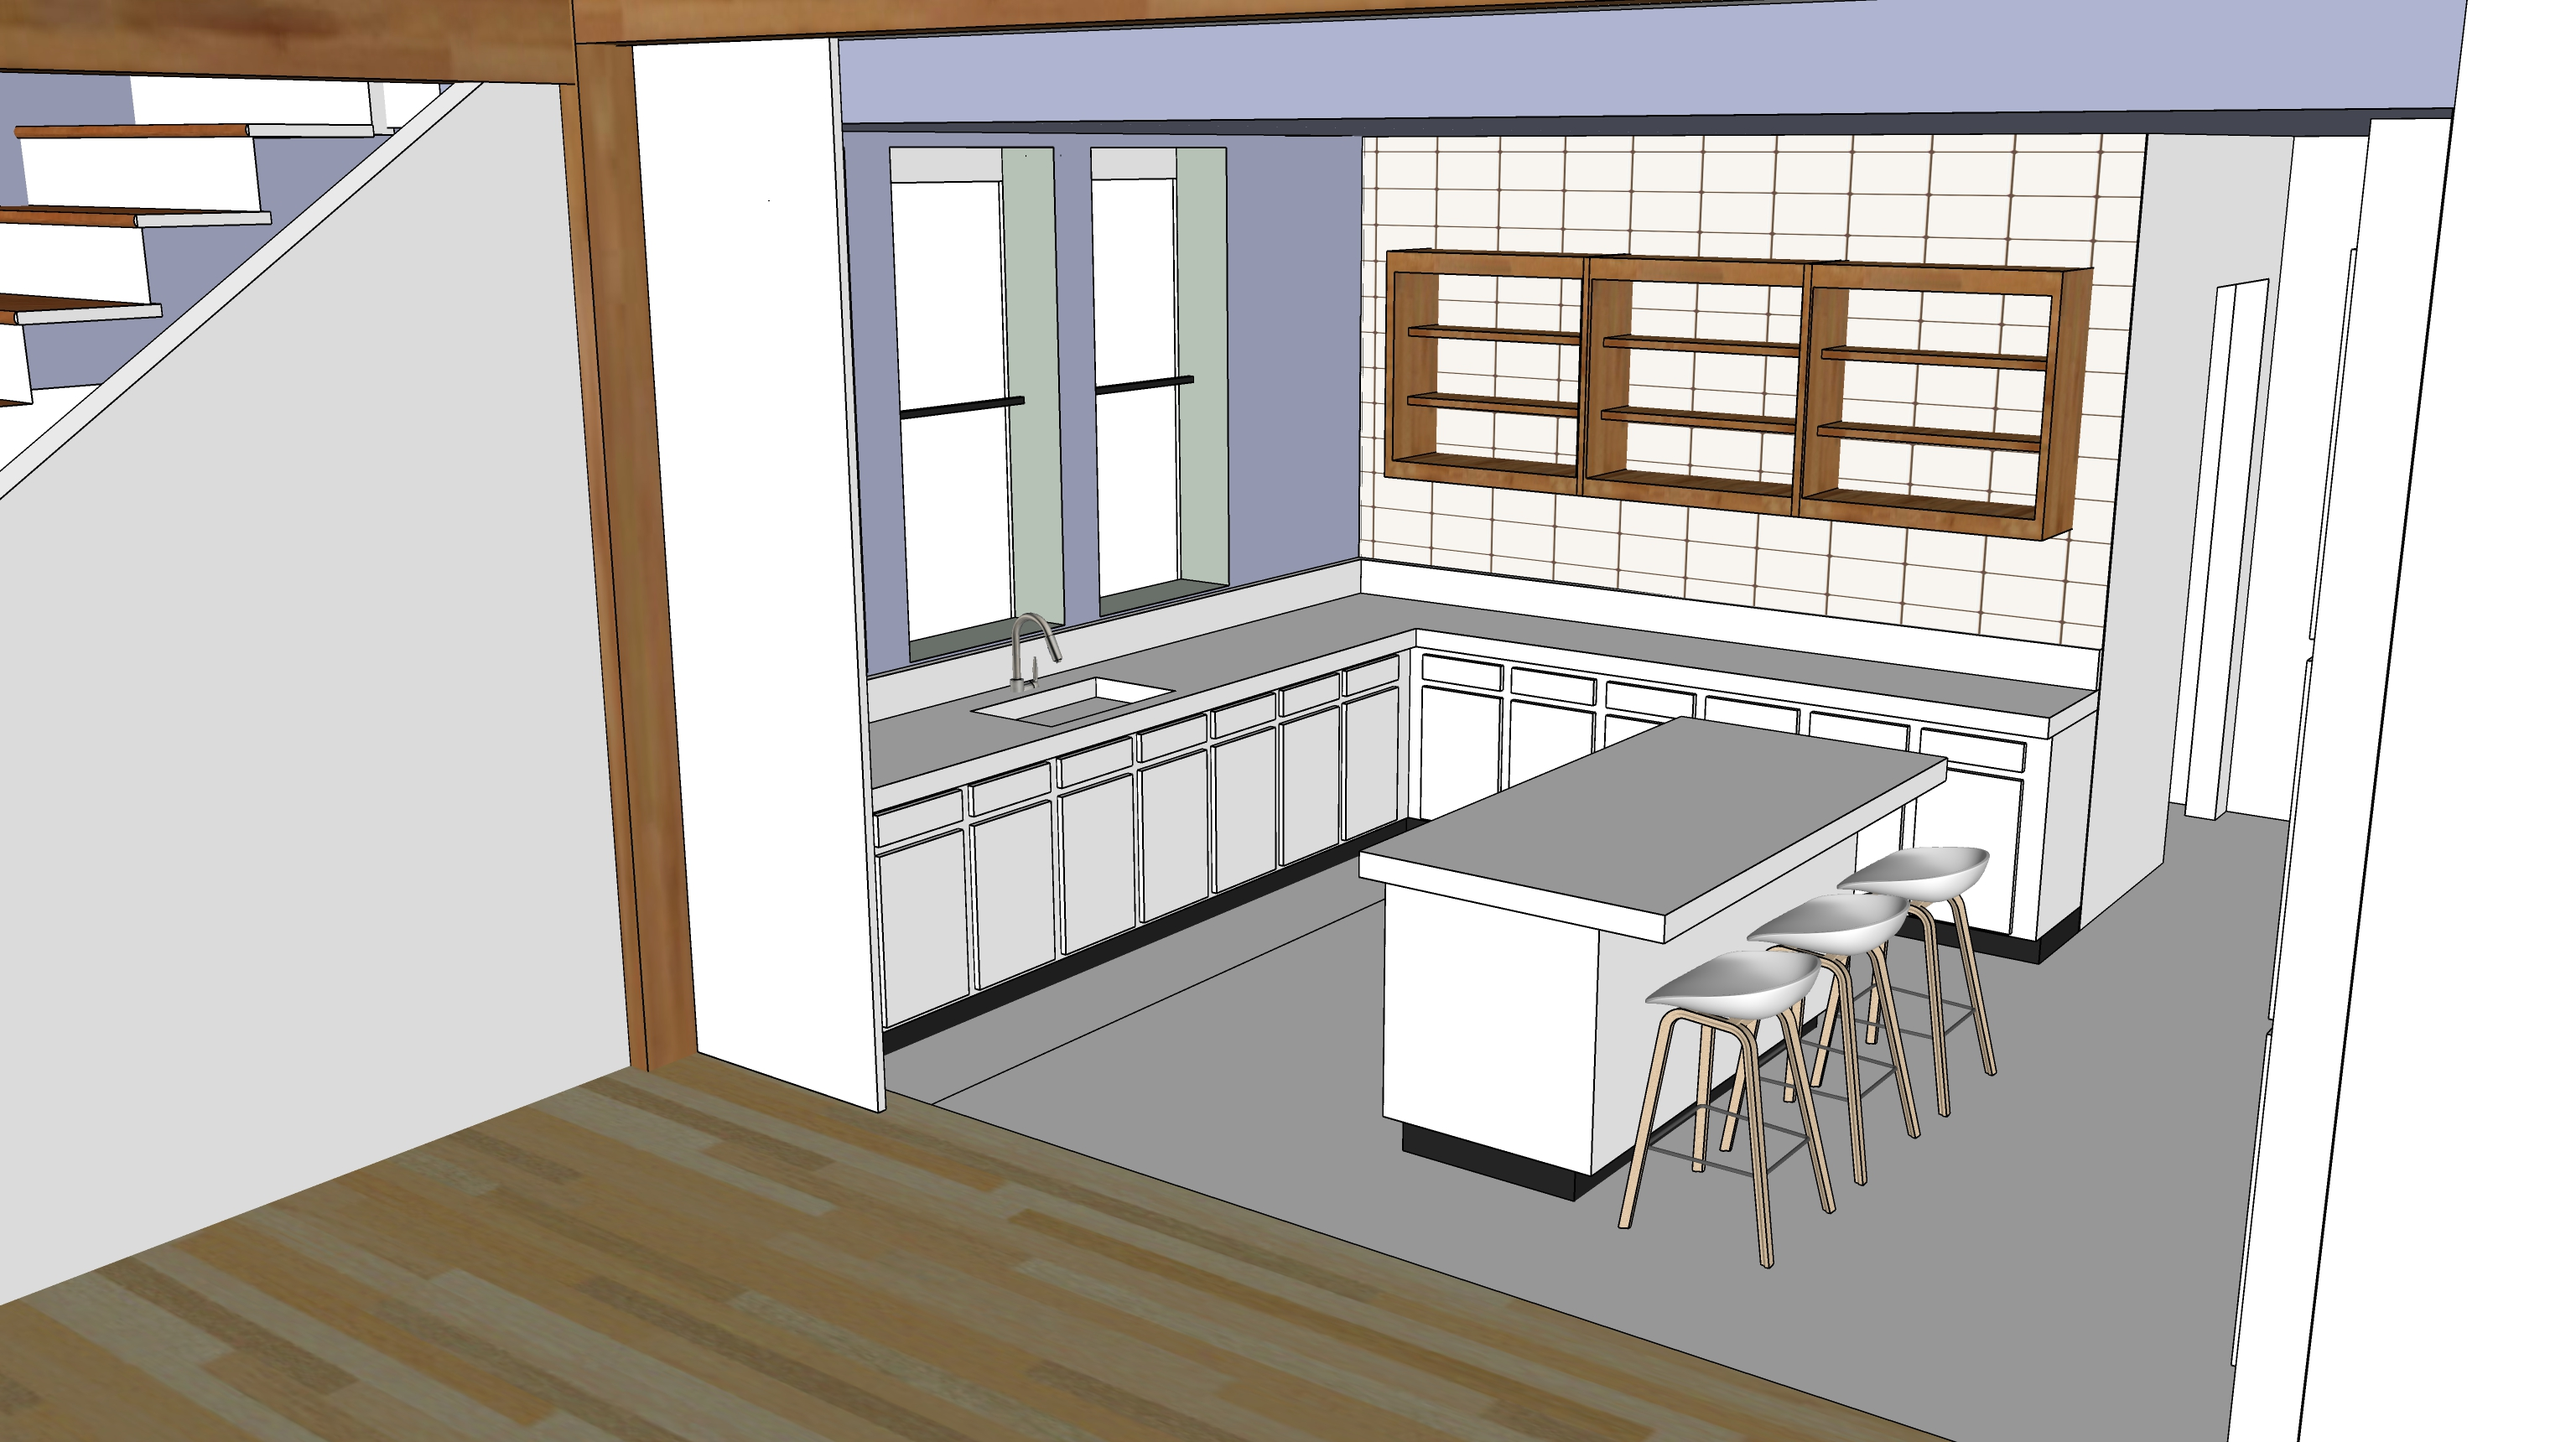
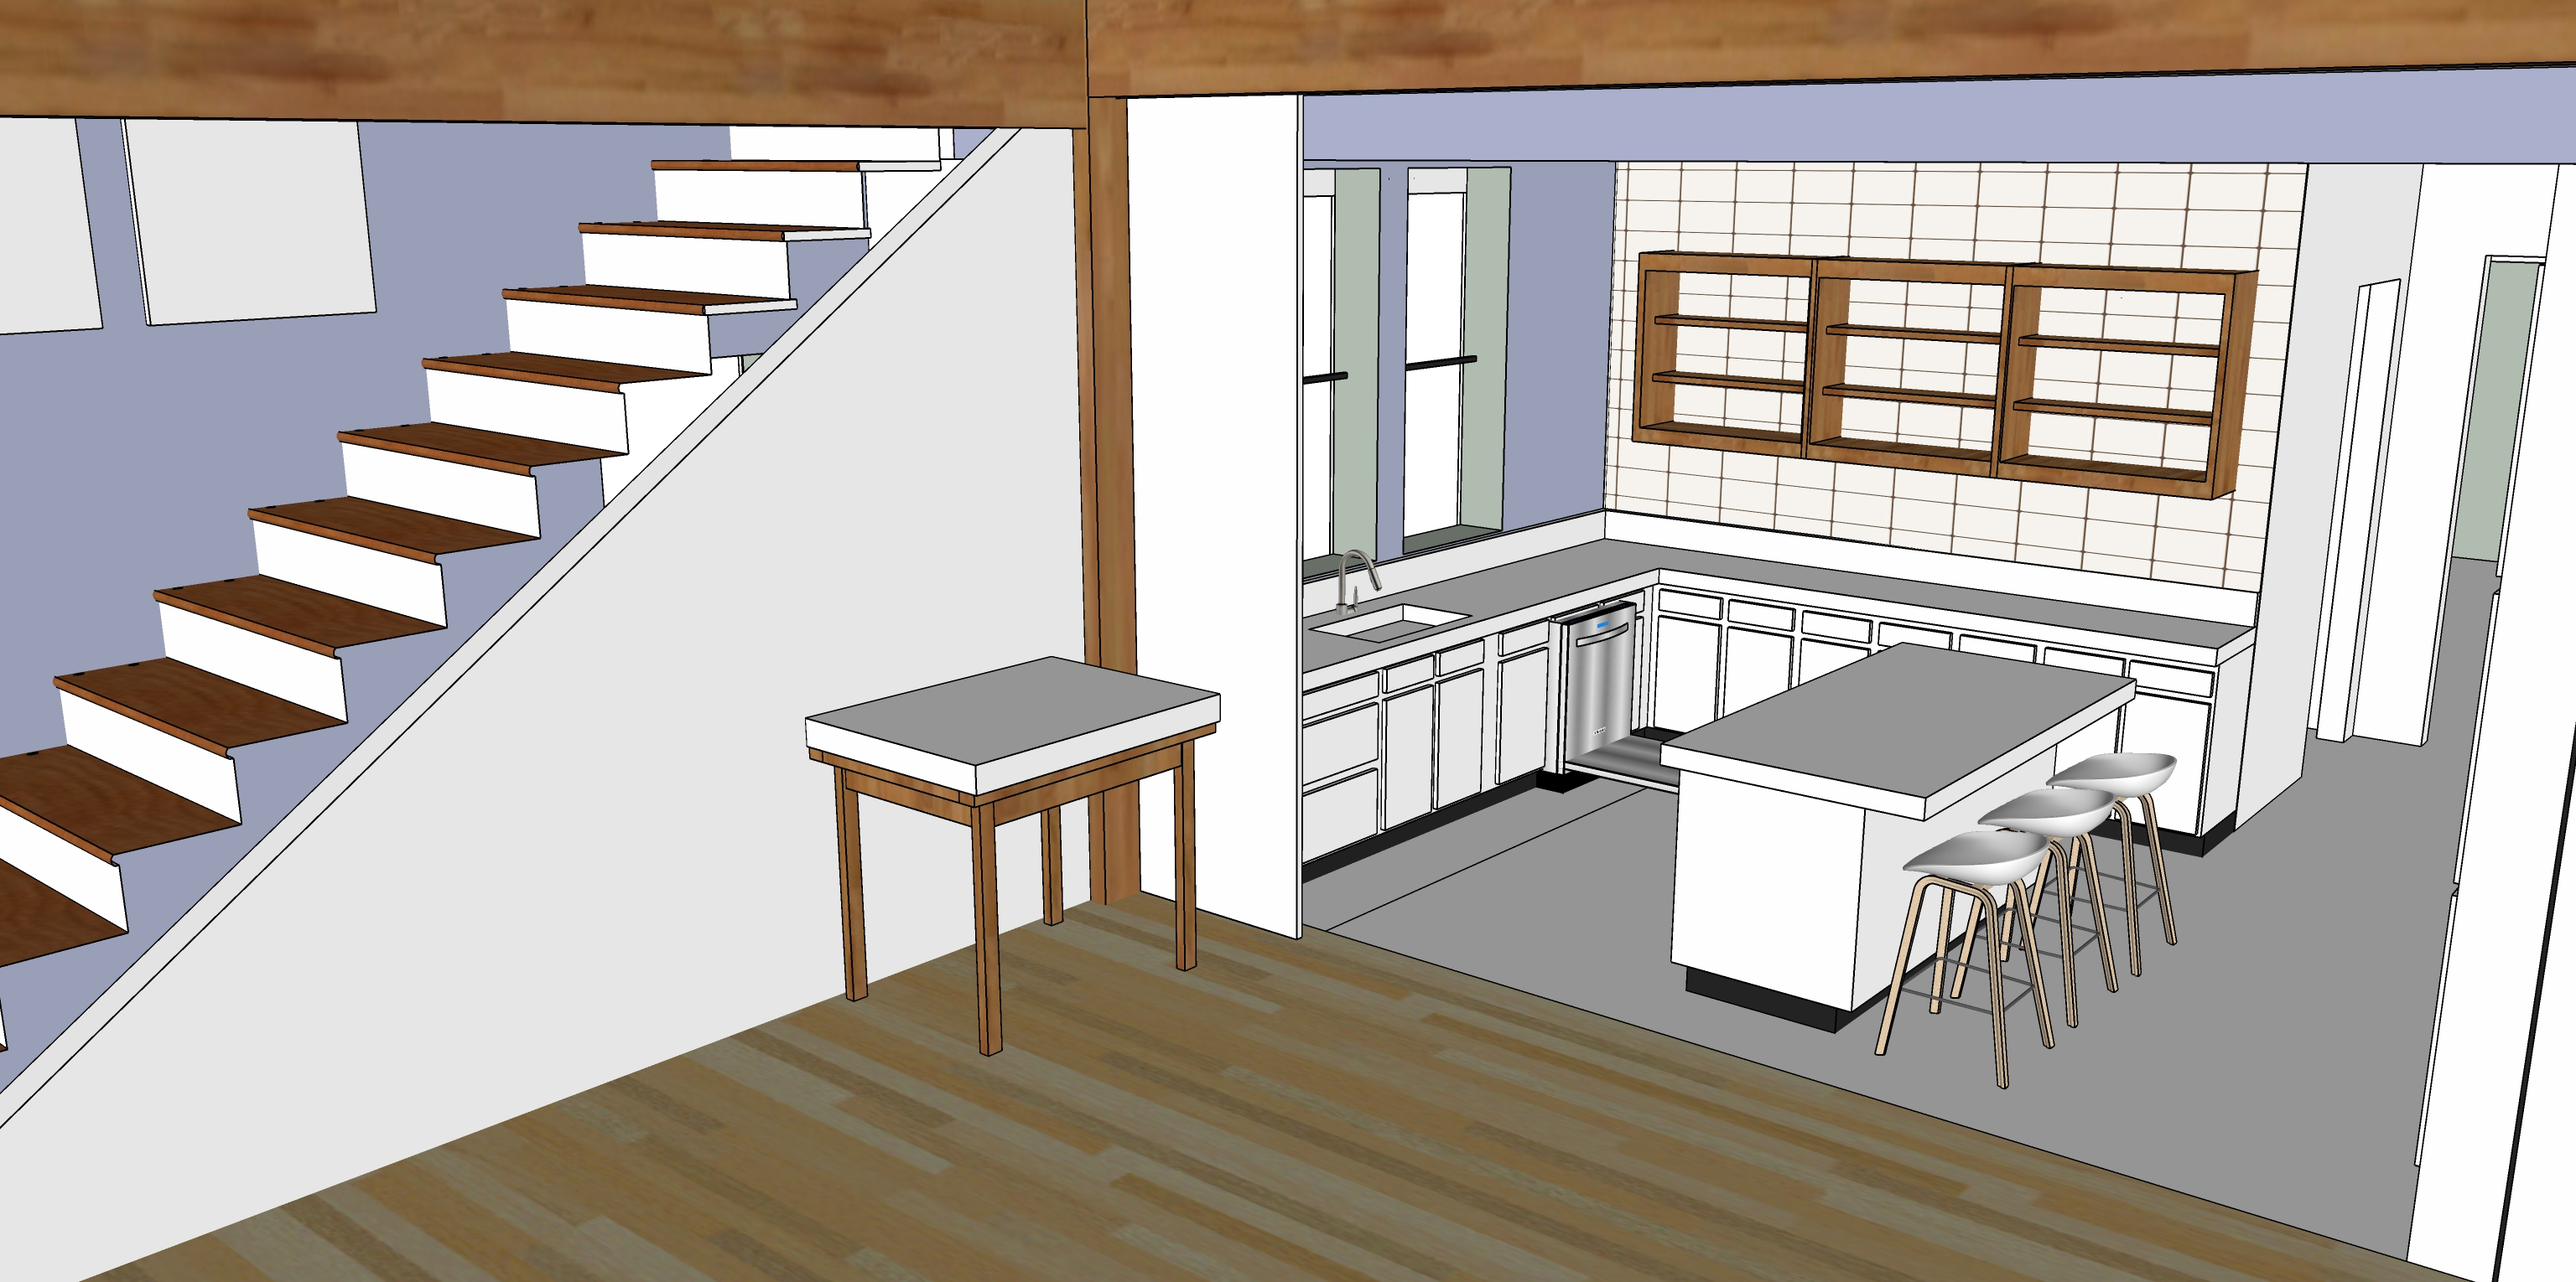
Update

diff --git a/kitchen/README.md b/kitchen/README.md
@@ -5,7 +5,9 @@
 
 Resides in location of current kitchen. Window wall moved 3' north. Pantry removed. Cabinets added to south side.
 
-<a href="img/kitchen.jpg"><img src="img/kitchen.jpg" style="width:100%; max-width: 1200px"></a><br>
+<a href="img/kitchen.jpg"><img src="img/kitchen.jpg" style="width:100%; max-width: 1200px"></a><br><br>
+
+<a href="img/kitchen-cabinets.jpg"><img src="img/kitchen-cabinets.jpg" style="width:100%; max-width: 1200px"></a><br>
 
 Spot lights on walls (adjustable eyeball). 3 medium pendant lights over island. 
 No divider in sink. Concealed trash and recycling bin pull out to left of sink.  
